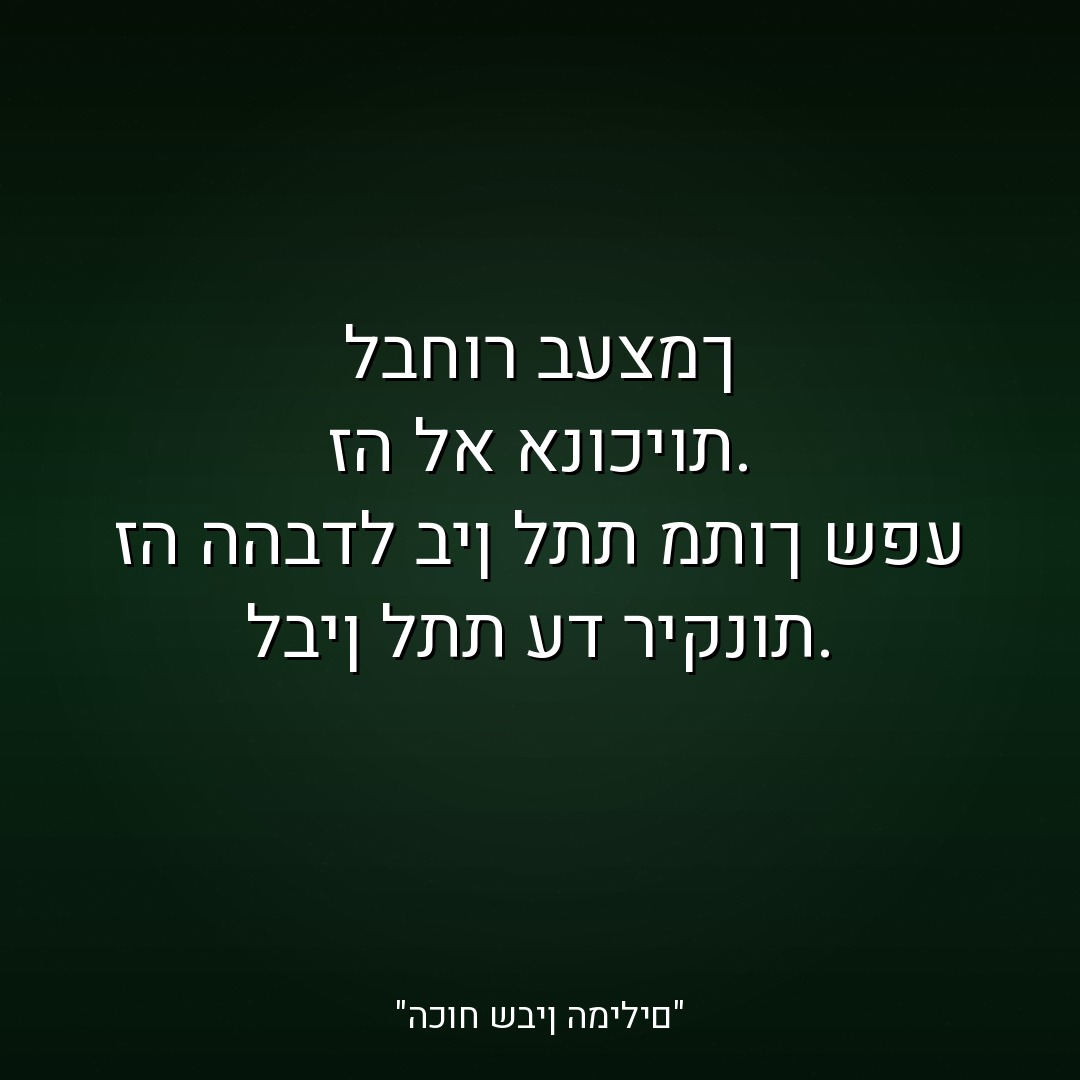
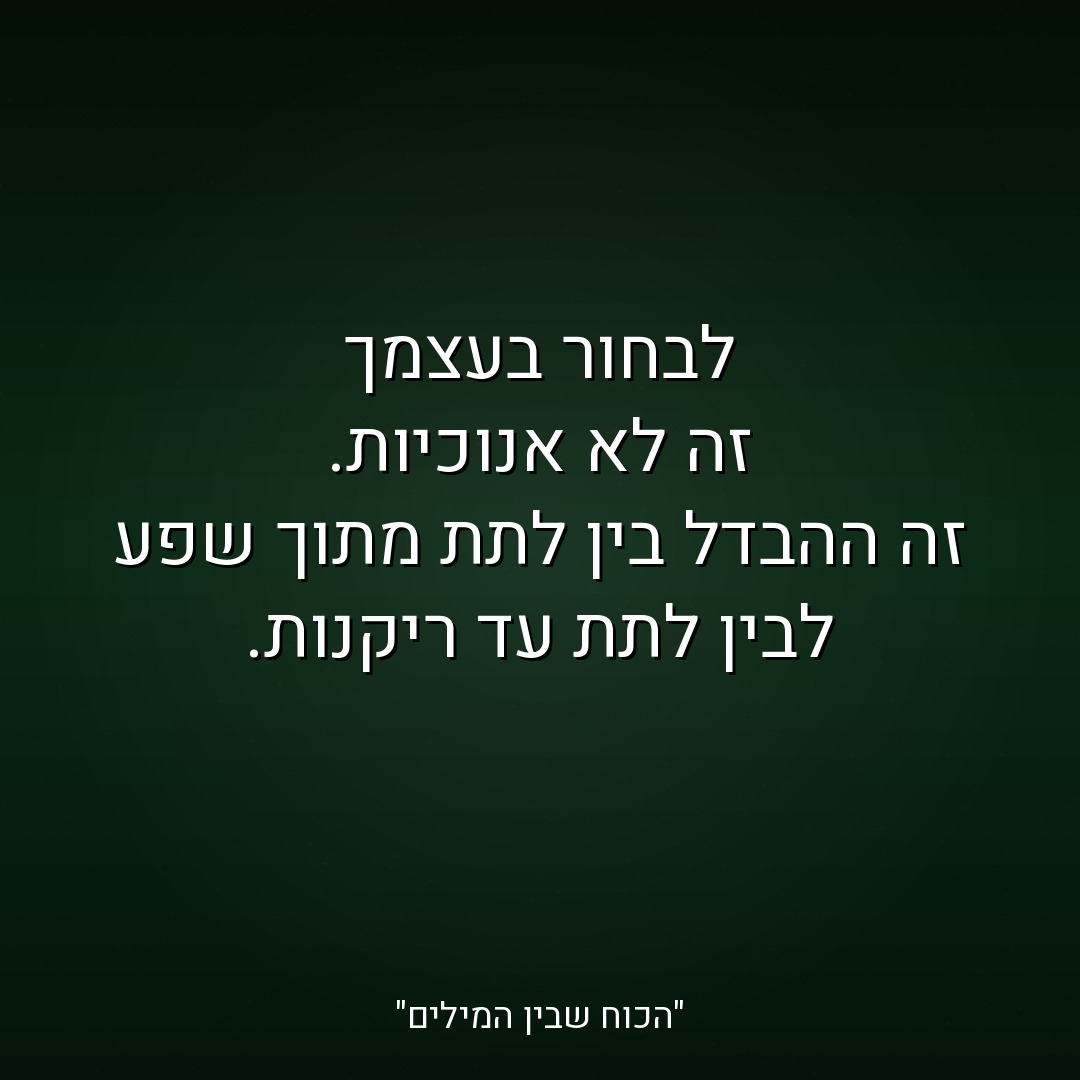
Fix RTL Hebrew text rendering — remove bidi double-reversal
Pillow handles Hebrew RTL natively; calling get_display() was
reversing the text a second time, causing mirrored output.

https://claude.ai/code/session_01Wb7eYJezSQi5a5sW8gDZuw

Changed region(s): [[0.0917, 0.3972, 0.9167, 0.6417], [0.3361, 0.3056, 0.7028, 0.3667], [0.3972, 0.9167, 0.6111, 0.9778]]

diff --git a/generate_quotes.py b/generate_quotes.py
@@ -3,7 +3,6 @@ import os
 import math
 import random
 from PIL import Image, ImageDraw, ImageFont, ImageFilter
-from bidi.algorithm import get_display
 
 OUTPUT_DIR = "quote_images"
 FONT_PATH = "/tmp/Heebo.ttf"
@@ -119,12 +118,9 @@ def draw_hebrew_text_centered(draw, text, font, img_width, y_start, fill, line_s
     lines = text.split("\n")
     line_heights = []
     line_widths = []
-    bidi_lines = []
 
     for line in lines:
-        bidi_line = get_display(line)
-        bidi_lines.append(bidi_line)
-        bbox = font.getbbox(bidi_line)
+        bbox = font.getbbox(line)
         w = bbox[2] - bbox[0]
         h = bbox[3] - bbox[1]
         line_widths.append(w)
@@ -134,11 +130,10 @@ def draw_hebrew_text_centered(draw, text, font, img_width, y_start, fill, line_s
     step = int(max_h * line_spacing)
     y = y_start
 
-    for bidi_line, w in zip(bidi_lines, line_widths):
+    for line, w in zip(lines, line_widths):
         x = (img_width - w) // 2
-        # Shadow
-        draw.text((x + 3, y + 3), bidi_line, font=font, fill=(0, 0, 0, 180))
-        draw.text((x, y), bidi_line, font=font, fill=fill)
+        draw.text((x + 3, y + 3), line, font=font, fill=(0, 0, 0, 180))
+        draw.text((x, y), line, font=font, fill=fill)
         y += step
 
     return y
@@ -165,11 +160,10 @@ def make_quote_image(quote_data, index):
     draw_hebrew_text_centered(draw, quote_data["text"], font, W, y_start, text_color)
 
     # Watermark bottom-center
-    wm_bidi = get_display(WATERMARK)
-    wm_bbox = watermark_font.getbbox(wm_bidi)
+    wm_bbox = watermark_font.getbbox(WATERMARK)
     wm_w = wm_bbox[2] - wm_bbox[0]
     wm_x = (W - wm_w) // 2
-    draw.text((wm_x, H - 90), wm_bidi, font=watermark_font, fill=(255, 255, 255, 200))
+    draw.text((wm_x, H - 90), WATERMARK, font=watermark_font, fill=(255, 255, 255, 200))
 
     out_path = os.path.join(OUTPUT_DIR, f"quote_{index + 1:02d}.jpg")
     img.save(out_path, "JPEG", quality=92)
